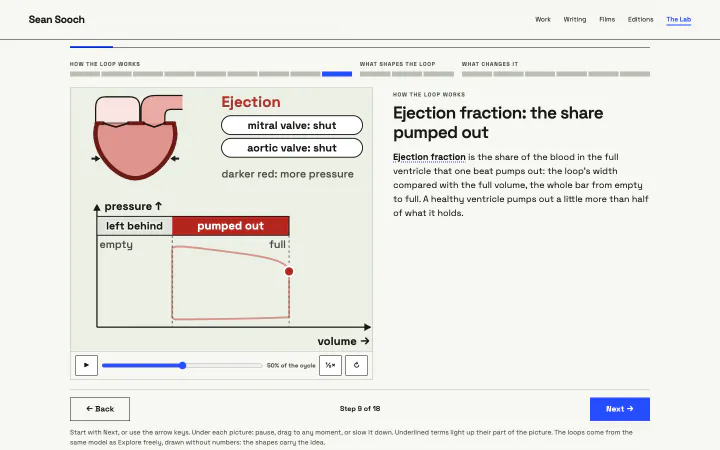
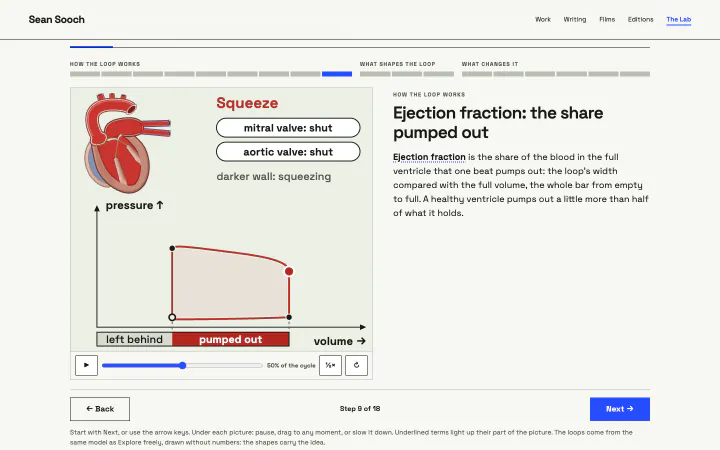
Works: The Lab's plate retaken on lesson 1's redrawn heart; vol4 and card retaken after it

Changed region(s): [[0.0917, 0.1867, 0.4278, 0.5911], [0.3056, 0.2178, 0.5194, 0.4044], [0.1222, 0.5911, 0.5194, 0.7778]]

diff --git a/index.html b/index.html
@@ -10,7 +10,7 @@
 <meta property="og:description" content="Twenty-three live works where medicine, the military and frontier AI meet, built by a medical student and military officer with AI as the engineering tool. 176,913 lines across 487 files in fifteen of them. Every one is live, and this page asks each address to answer while you read.">
 <meta property="og:type" content="website">
 <meta property="og:url" content="https://seansooch.dev/">
-<meta property="og:image" content="https://seansooch.dev/plates/card.jpg?v=a30040d633">
+<meta property="og:image" content="https://seansooch.dev/plates/card.jpg?v=b55b71982d">
 <meta property="og:image:width" content="1200">
 <meta property="og:image:height" content="630">
 <meta name="twitter:card" content="summary_large_image">
@@ -146,7 +146,7 @@
       </div>
       
     </article><article class="work pair" id="lab" data-worlds="med">
-      <figure class="plate-fig"><a class="plate" href="https://seansooch.dev/lab/" target="_blank" rel="noopener" tabindex="-1" aria-hidden="true"><img src="/plates/lab-720.webp?v=42969af15a" srcset="/plates/lab-720.webp?v=42969af15a 720w, /plates/lab.webp?v=33a8291ac6 1440w" sizes="(max-width: 860px) 92vw, 46vw" width="1440" height="900" alt="The Lab, as it looked on 10 Nov 2026" decoding="async" loading="lazy"></a></figure>
+      <figure class="plate-fig"><a class="plate" href="https://seansooch.dev/lab/" target="_blank" rel="noopener" tabindex="-1" aria-hidden="true"><img src="/plates/lab-720.webp?v=7700fa4112" srcset="/plates/lab-720.webp?v=7700fa4112 720w, /plates/lab.webp?v=3b376260ed 1440w" sizes="(max-width: 860px) 92vw, 46vw" width="1440" height="900" alt="The Lab, as it looked on 14 Nov 2026" decoding="async" loading="lazy"></a></figure>
       <header class="work-h">
         <p class="cap-top lbl"><span>Medicine · Course</span><span class="live"><i class="dot" data-dot="lab"></i><span data-ms="lab">not asked yet</span></span></p>
         <h4>The Lab</h4>

diff --git a/record/index.html b/record/index.html
@@ -10,7 +10,7 @@
 <meta property="og:description" content="How this site is made and kept, apart from the work: every edition it has had, what is counted from source, what your browser measures as you read, and an index of everything on it.">
 <meta property="og:type" content="website">
 <meta property="og:url" content="https://seansooch.dev/record/">
-<meta property="og:image" content="https://seansooch.dev/plates/card.jpg?v=a30040d633">
+<meta property="og:image" content="https://seansooch.dev/plates/card.jpg?v=b55b71982d">
 <meta property="og:image:width" content="1200">
 <meta property="og:image:height" content="630">
 <meta name="twitter:card" content="summary_large_image">
@@ -93,7 +93,7 @@
         <p class="lbl">Retired with honors, November 2026.</p>
         <a class="go" href="https://seansooch-vol3.pages.dev/" target="_blank" rel="noopener">Open the archive<span aria-hidden="true"> ↗</span></a>
       </article><article class="vol" id="vol4">
-        <div class="plate"><img src="/plates/vol4-720.webp?v=4dbe8ad3a6" srcset="/plates/vol4-720.webp?v=4dbe8ad3a6 720w, /plates/vol4.webp?v=57765507d8 1440w" sizes="(max-width: 860px) 92vw, 23vw" width="1440" height="900" alt="Vol. 04, Side by Side" decoding="async" loading="lazy"></div>
+        <div class="plate"><img src="/plates/vol4-720.webp?v=b8d9bc5413" srcset="/plates/vol4-720.webp?v=b8d9bc5413 720w, /plates/vol4.webp?v=c154558a04 1440w" sizes="(max-width: 860px) 92vw, 23vw" width="1440" height="900" alt="Vol. 04, Side by Side" decoding="async" loading="lazy"></div>
         <p class="cap-top lbl"><span>Vol. 04</span><span>November 2026</span></p>
         <h3>Side by Side</h3>
         <p class="say-s">A neutral room: each work beside its own earlier edition, no colour but the work&#x27;s. Designed by Claude Fable 5.2.</p>

diff --git a/two-stories/index.html b/two-stories/index.html
@@ -10,7 +10,7 @@
 <meta property="og:description" content="An origin story is a starting condition plus a rule, and the evidence only ever reaches the rule. Part I sets the Big Bang beside a generated origin, takes four objections seriously (tidiness, cheating, motive, and proving too much), and shows that two of them force the second story to change.">
 <meta property="og:type" content="article">
 <meta property="og:url" content="https://seansooch.dev/two-stories/">
-<meta property="og:image" content="https://seansooch.dev/plates/card.jpg?v=a30040d633">
+<meta property="og:image" content="https://seansooch.dev/plates/card.jpg?v=b55b71982d">
 <meta property="og:image:width" content="1200">
 <meta property="og:image:height" content="630">
 <meta name="twitter:card" content="summary_large_image">

diff --git a/lab/index.html b/lab/index.html
@@ -10,7 +10,7 @@
 <meta property="og:description" content="The Lab: a course in core medicine in six units, taught one picture at a time. Step-by-step visual lessons in plain language, each with goals, predictions, a quiz and a summary. Educational only, not for clinical use.">
 <meta property="og:type" content="website">
 <meta property="og:url" content="https://seansooch.dev/lab/">
-<meta property="og:image" content="https://seansooch.dev/plates/card.jpg?v=a30040d633">
+<meta property="og:image" content="https://seansooch.dev/plates/card.jpg?v=b55b71982d">
 <meta property="og:image:width" content="1200">
 <meta property="og:image:height" content="630">
 <meta name="twitter:card" content="summary_large_image">

diff --git a/404.html b/404.html
@@ -8,7 +8,7 @@
 <meta property="og:title" content="Nothing at this address · Sean Sooch">
 <meta property="og:description" content="There is no page at this address on seansooch.dev.">
 <meta property="og:type" content="website">
-<meta property="og:image" content="https://seansooch.dev/plates/card.jpg?v=a30040d633">
+<meta property="og:image" content="https://seansooch.dev/plates/card.jpg?v=b55b71982d">
 <meta property="og:image:width" content="1200">
 <meta property="og:image:height" content="630">
 <meta name="twitter:card" content="summary_large_image">
